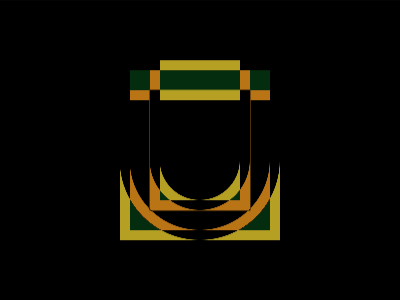
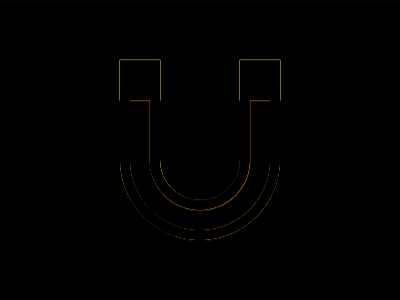
Score: 623.36, Characters: 298 (100.00% match) - CSSHub

Changed region(s): [[0.3, 0.18, 0.72, 0.36], [0.51, 0.54, 0.72, 0.81], [0.3, 0.54, 0.48, 0.81]]

diff --git a/Daily Targets/2026-09-30/README.md b/Daily Targets/2026-09-30/README.md
@@ -23,9 +23,7 @@ Challenge: <https://cssbattle.dev/play/F8dyF0XEp3g1Ff4mG90c>
 
 ```html
 <style>
-& {
-  border-radius: 0 0 1in 1in;
-}
+& {border-radius: 0 0 1in 1in;}
 * {
   margin:25%160;
   color:4355cc;
@@ -36,7 +34,7 @@ Challenge: <https://cssbattle.dev/play/F8dyF0XEp3g1Ff4mG90c>
   * {
     margin: -30 90 110 -30;
     -webkit-box-reflect: right 25vw;
-    --a: 0 0 0 10px, 5ch 0 0 10px #f8f5f1;
+    --a: 0 0 0 11q, 5ch 0 0 11q #f8f5f1;
   }
 }
 </style>

diff --git a/README.md b/README.md
@@ -160,7 +160,7 @@
 <li><a href="./Daily%20Targets/2026-09-27/">Sep 27, 2026</a> (344 Characters)</li>
 <li><a href="./Daily%20Targets/2026-09-28/">Sep 28, 2026</a> (155 Characters)</li>
 <li><a href="./Daily%20Targets/2026-09-29/">Sep 29, 2026</a> (159 Characters)</li>
-<li><a href="./Daily%20Targets/2026-09-30/">Sep 30, 2026</a> (304 Characters)</li>
+<li><a href="./Daily%20Targets/2026-09-30/">Sep 30, 2026</a> (298 Characters)</li>
 </ul>
 </details>
 </li>
